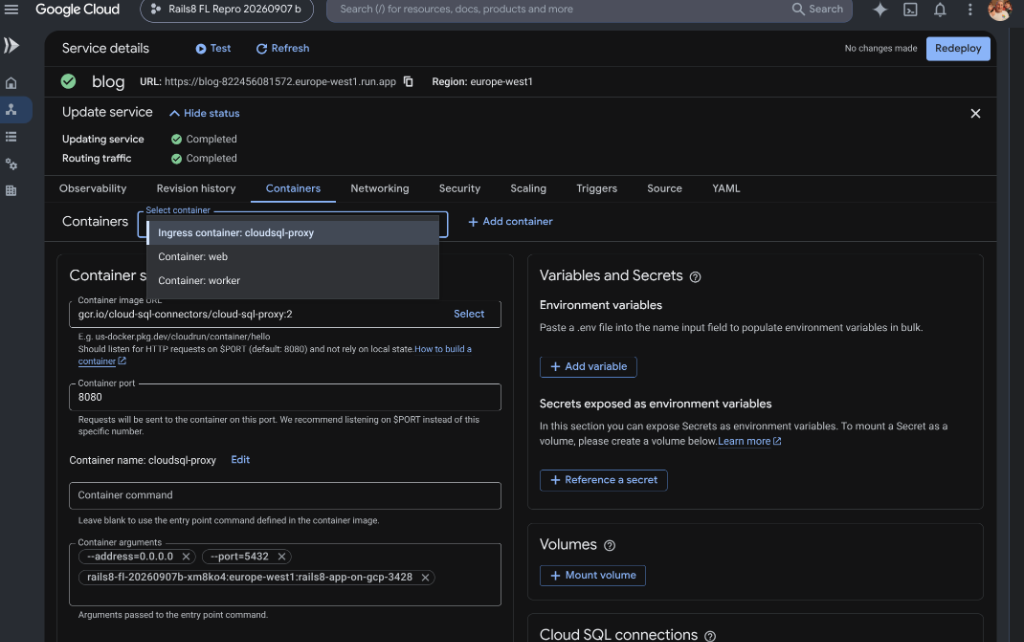
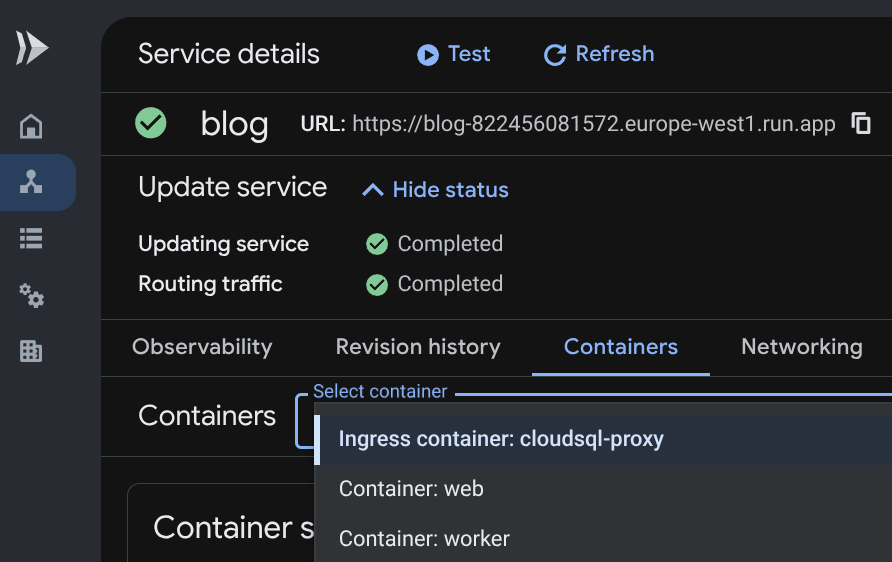
FL100-82: document Cloud Console UI glitch for ingress container (#149) (v0.2.76)

diff --git a/workshop/CODELAB.md b/workshop/CODELAB.md
@@ -870,6 +870,8 @@ gcloud run compose up compose.prod.yaml \
 ![Google Cloud Run Console Containers tab displaying the 3 sidecar containers](assets/images/step6_cloud_run_three_containers.png)
 *Google Cloud Run Console: 'Containers' tab displaying all three sidecar containers (`cloudsql-proxy`, `web`, `worker`)*
 
+> 💡 **UI Curiosity / Console Glitch:** In the Console dropdown, you may notice Cloud Run labels the top entry as `Ingress container: cloudsql-proxy`. Don't worry! This is purely a visual UI glitch in the Google Cloud Console (tracked in [#149](https://github.com/palladius/rails8-app-on-gcp/issues/149)) caused by container dependency ordering. In reality, `web` is the only container listening on HTTP port 8080 and handles 100% of ingress web traffic, while `cloudsql-proxy` strictly serves private PostgreSQL traffic on port 5432!
+
 ### 5. ✨ The Wow Moment: Zero Warnings & Full Cloud Persistence!
 
 Take a deep breath and marvel at your screen: **all warning banners have vanished!** 🪄

diff --git a/CHANGELOG.md b/CHANGELOG.md
@@ -1,5 +1,9 @@
 All notable changes to this project will be documented in this file.
 
+## [0.2.76] - 2026-09-23
+### Added
+- FL100-82: Added explanatory note in Step 6 regarding the Google Cloud Console UI glitch that labels `cloudsql-proxy` as ingress container, linking to GitHub Issue #149. Updated cropped screenshot.
+
 ## [0.2.75] - 2026-09-23
 ### Added
 - FL100-81: Embedded real screenshot `step6_cloud_run_three_containers.png` showing all 3 sidecar containers (`cloudsql-proxy`, `web`, `worker`) in the Google Cloud Run Console Containers tab. Replaced the last remaining Step 6 TODO.
